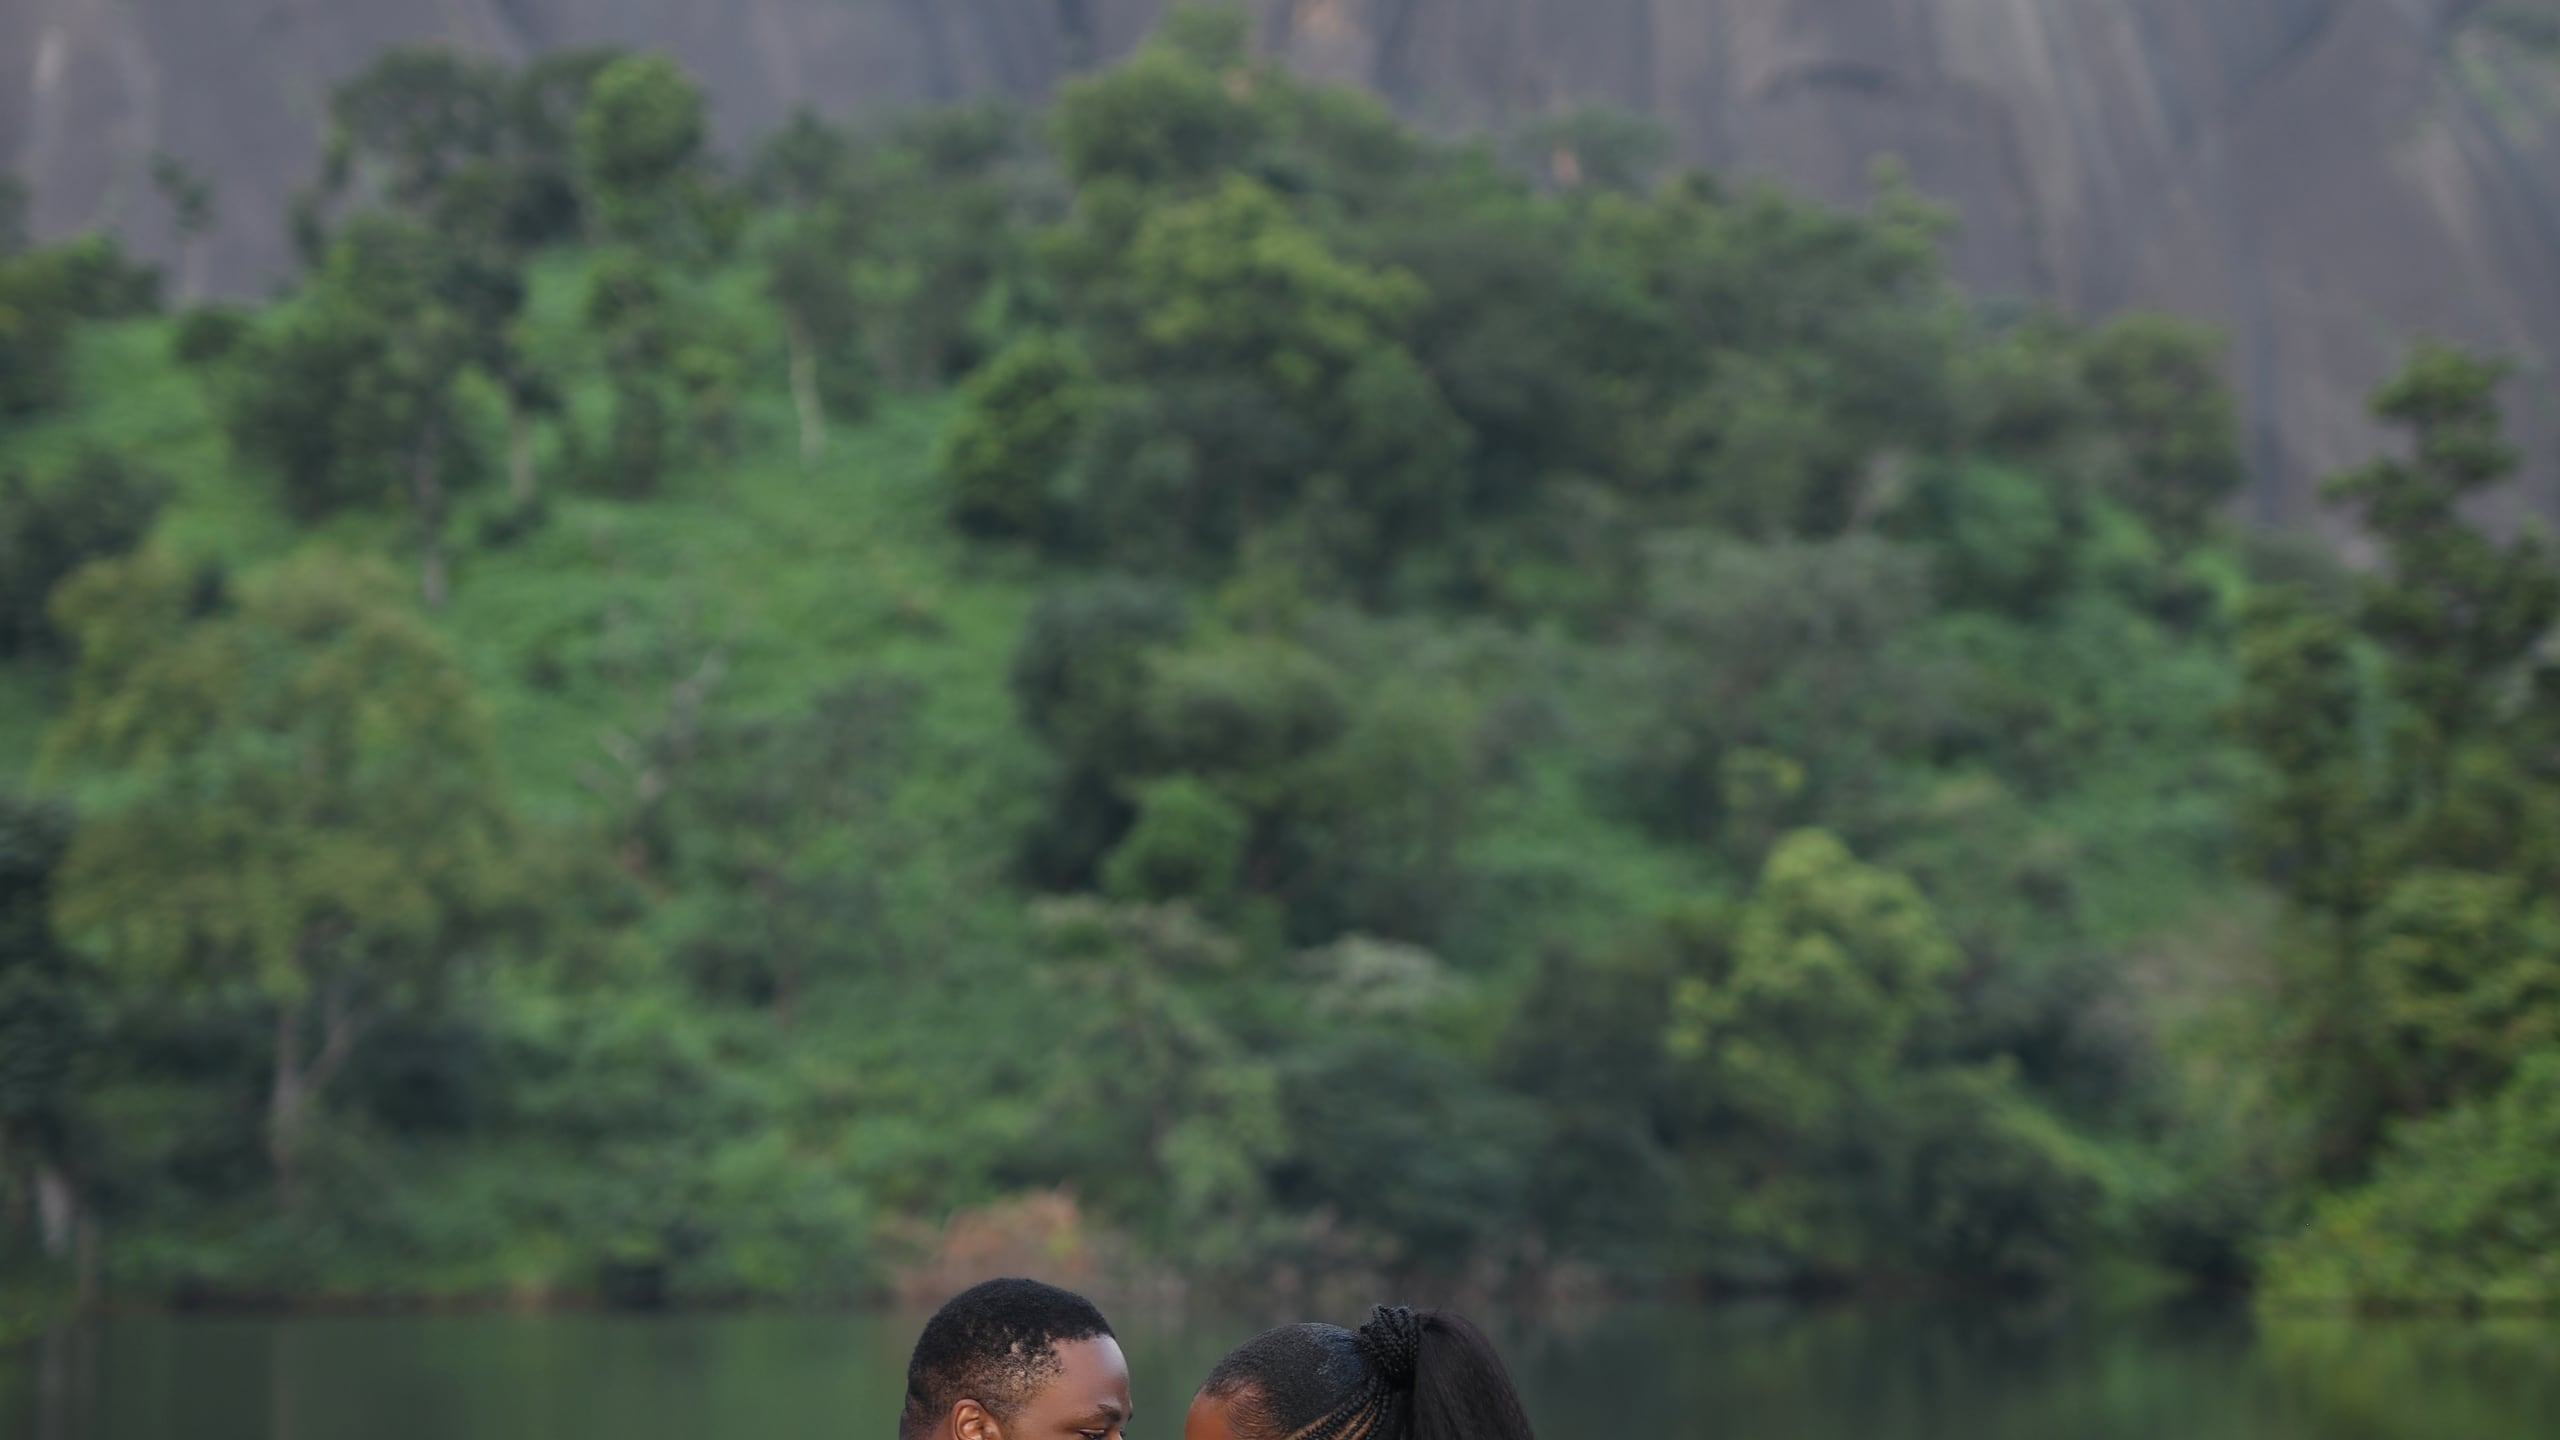
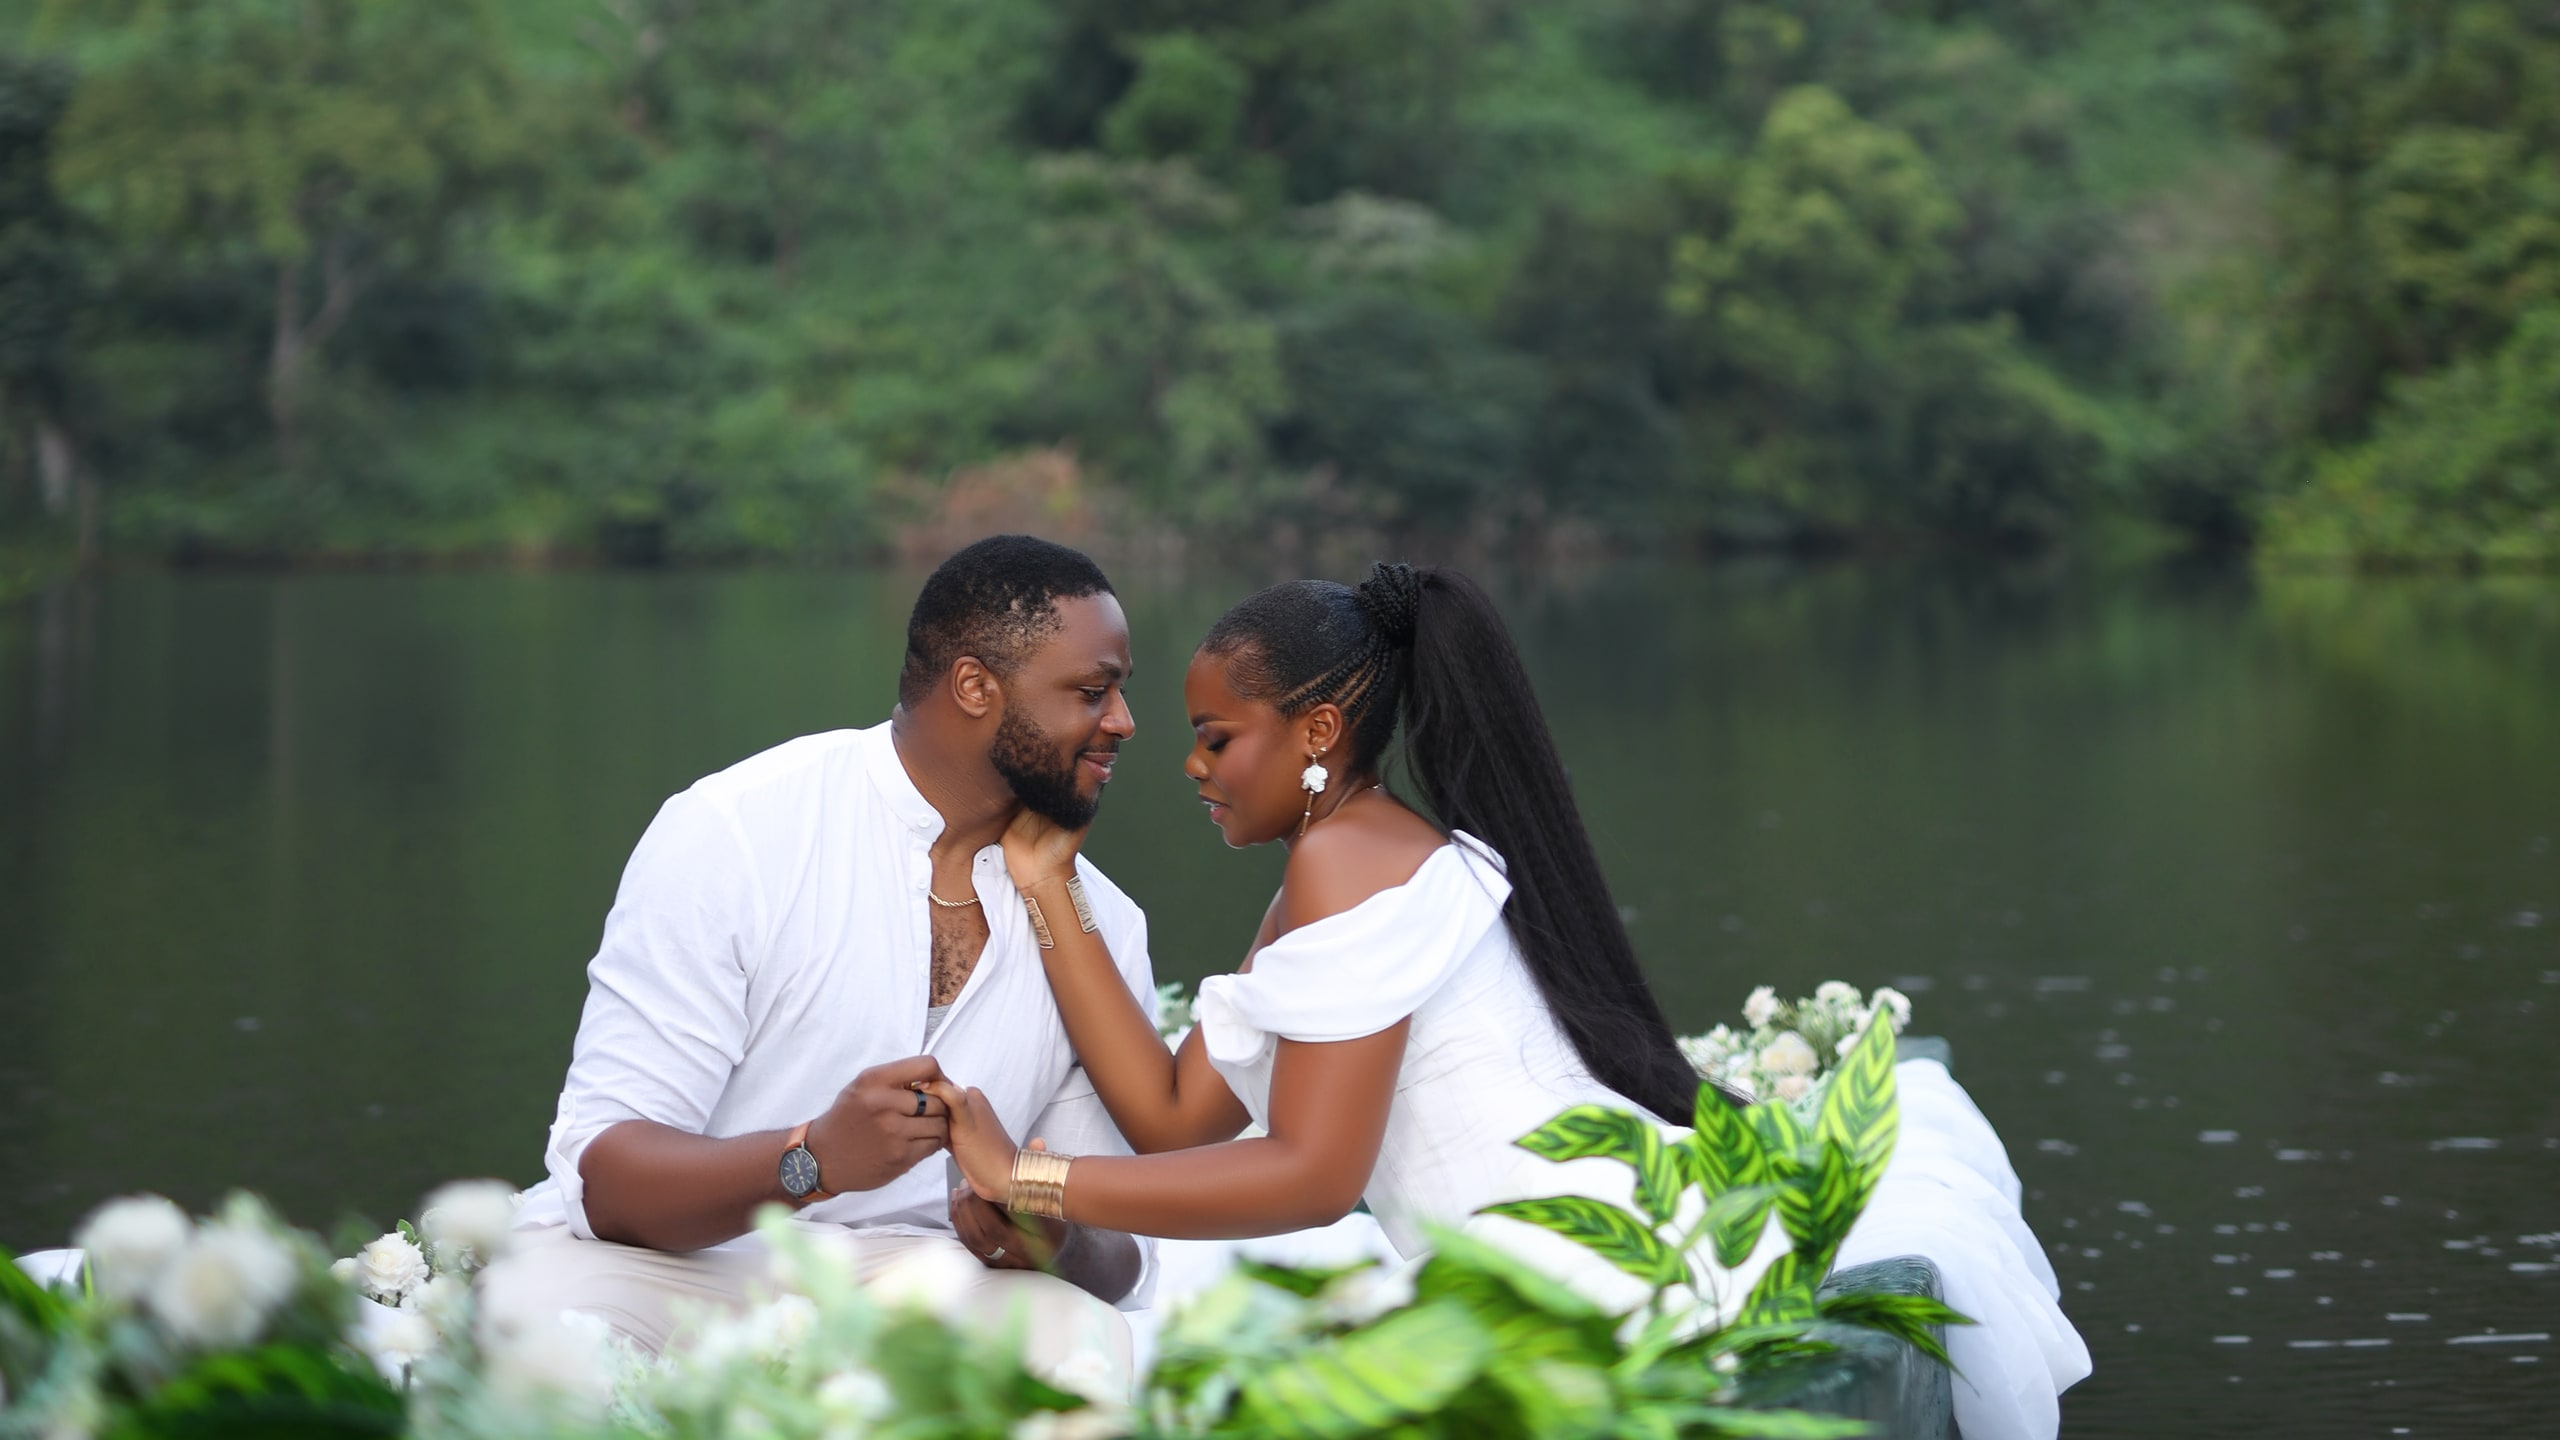
fix(hero): reposition hero image to clearly center couple and soften dark vignette

diff --git a/src/components/Hero.tsx b/src/components/Hero.tsx
@@ -18,13 +18,11 @@ export const Hero: FC<HeroProps> = () => {
         <img decoding="sync"
           src={wedding.couple.heroImage}
           alt={wedding.couple.title}
-          className="w-full h-full object-cover scale-100 transition-transform duration-1000 ease-out object-[38%_center] sm:object-[42.7%_center] md:object-[42.7%_center] lg:object-[42.7%_center]"
+          className="w-full h-full object-cover scale-100 transition-transform duration-1000 ease-out object-center"
         />
-        {/* Layered Gradient Vignette: Deep contrast top and bottom for readability */}
-        <div className="absolute inset-0 bg-gradient-to-b from-black/80 via-black/35 to-brand-espresso" />
-        {/* Dedicated dark contrast scrim across the text area in the lower-middle */}
-        <div className="absolute inset-x-0 bottom-0 h-3/5 bg-gradient-to-t from-black/90 via-black/50 to-transparent pointer-events-none" />
-        <div className="absolute inset-0 bg-radial-gradient from-transparent via-black/20 to-black/70 pointer-events-none" />
+        {/* Layered Cinematic Vignette: Clean contrast for text while keeping the couple clearly visible and radiant */}
+        <div className="absolute inset-0 bg-gradient-to-b from-black/65 via-black/25 to-brand-espresso/75 pointer-events-none" />
+        <div className="absolute inset-0 bg-radial-gradient from-transparent via-black/15 to-black/55 pointer-events-none" />
       </div>
 
       {/* Hero Content */}

diff --git a/src/config/couples/busonma-bunigom.ts b/src/config/couples/busonma-bunigom.ts
@@ -18,7 +18,7 @@ export const busonmaBunigomConfig: WeddingConfig = {
     locationText: 'Victoria Island, Lagos',
     dateTeaser: 'March 2027',
     logoImage: '/assets/busonma-bunigom/logo.png?v=10',
-    heroImage: '/assets/busonma-bunigom/hero-opt.jpg?v=12',
+    heroImage: '/assets/busonma-bunigom/hero-opt.jpg?v=13',
     heroObjectPosition: '42.7% center',
     rsvpAvatarImage: '/assets/busonma-bunigom/rsvp-avatar.jpg?v=12',
     wishlistImage: '/assets/busonma-bunigom/wishlist.jpg?v=12',
